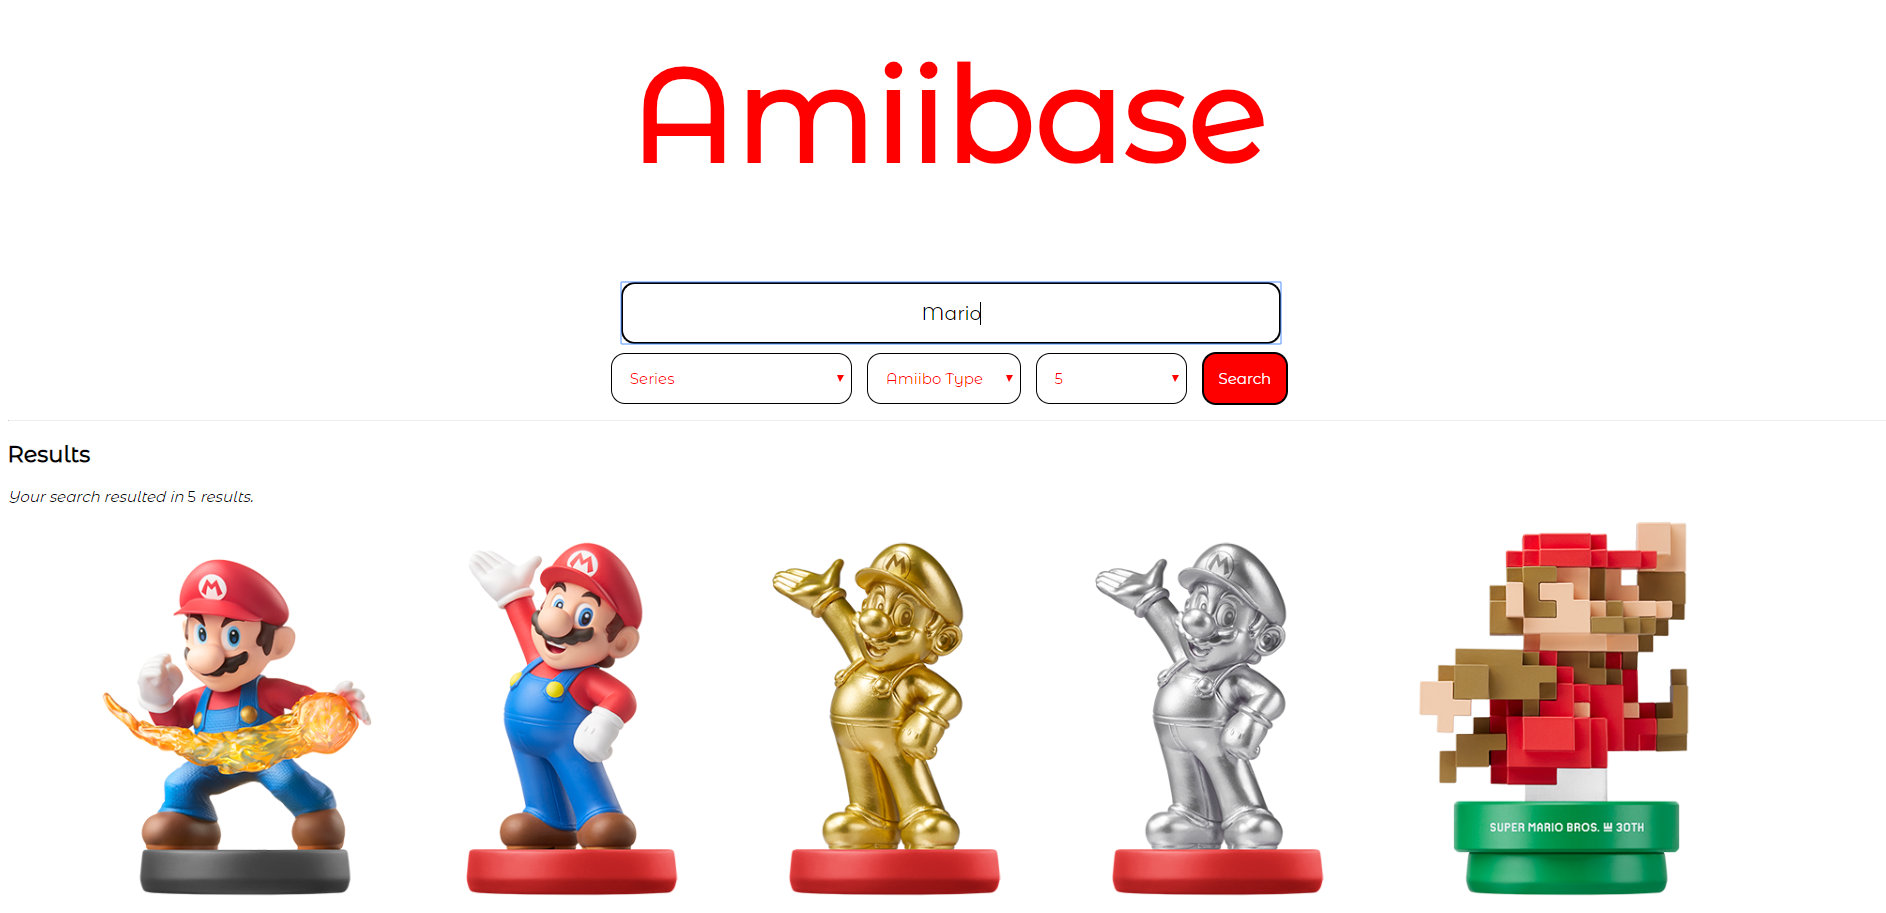
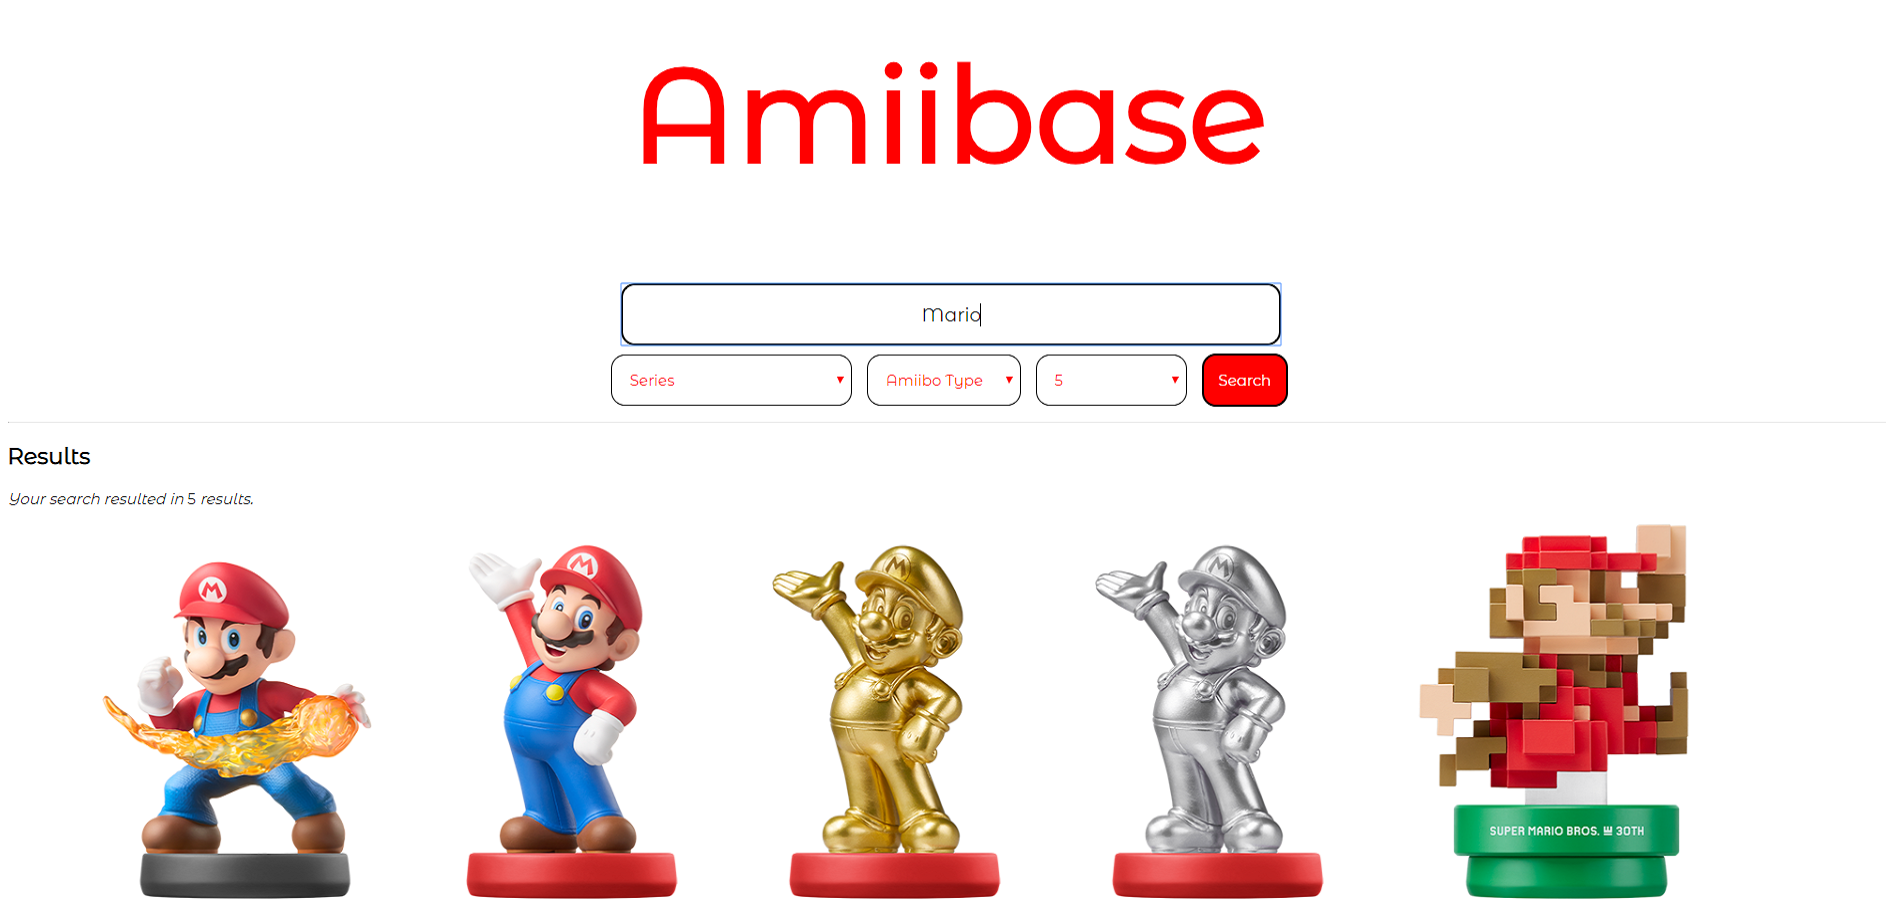
Fixed issue with carousels not working and edited some screenshots to make sizes the same

Changed region(s): [[0.3383, 0.3373, 0.6766, 0.46], [0.3383, 0.4294, 0.4305, 0.46], [0.5536, 0.4294, 0.6151, 0.46]]

diff --git a/index.html b/index.html
@@ -9,7 +9,7 @@
   <link rel="stylesheet" href="https://maxcdn.bootstrapcdn.com/bootstrap/3.3.1/css/bootstrap.min.css">
   <link rel="stylesheet" href="css/style.css">
   <script src="https://cdnjs.cloudflare.com/ajax/libs/popper.js/1.14.3/umd/popper.min.js"></script>
-  <script src="js/bootstrap.min.js"></script>
+  <script src="https://maxcdn.bootstrapcdn.com/bootstrap/3.3.1/js/bootstrap.min.js"></script>
   <meta name="viewport" content="width=device-width, initial-scale=1">
 </head>
 
@@ -27,10 +27,9 @@
       <!--navbar-header-->
       <div class="collapse navbar-collapse" id="collapse">
         <ul class="nav navbar-nav navbar-right">
-          <li class="active"><a href="#top">Home</a></li>
+          <li><a href="#top">Home</a></li>
           <li><a href="#aboutMe">About Me</a></li>
           <li><a href="#projects">Projects</a></li>
-          <li><a href="#resume">Resume</a></li>
           <li><a href="#contactMe">Contact Me</a></li>
         </ul>
       </div>
@@ -46,7 +45,7 @@
         </div>
         <div class = "col-sm-8">
           <h1 id="thatsMyName">Brady Friese</h1>
-        <h1 id="statement">C# and JavaScript Programmer searching for an internship</h1>
+        <h1 id="statement">Aspiring Software Developer looking for Employment</h1>
         </div>
         
       </div>
@@ -58,9 +57,8 @@
     <div class="page" >
       <div class="content container">
         <h2>About Me</h2>
-        <p>I am a Game Programmer from Lisbon Connecticut. I enjoy the process of creating living breathing objects
-          from lines of text on a
-          computer screen. I spend my offtime playing card games and watching Anime with friends.</p>
+        <p>I am a software developer with a focus on back-end JavaScript. I enjoy creating software that can be used by people all around the world. While I may focus on back-end development work, I do have some experience with front-end develpment and its frameworks as well. </p>
+        <p>I am a hard worker that can adapt quickly to unfamiliar environments and workflows. I also take pride in my ability to learn new languages and concepts quickly.</p>
       </div><!--Content Container-->
     </div><!-- aboutMe Page -->
   </div>
@@ -75,8 +73,7 @@
               <h3>Egg</h3>
               <div class="col-sm-4">
                 <p>Egg is a 2D platformer where you play as a chicken who must rescue all of their eggs. Players will
-                  run,jump, and dash around the level to reach the end goal. I worked on this game with 3 other students
-                  for a C# programming class project.</p>
+                  run,jump, and dash around the level to reach the end goal. I worked on this game with 3 other students.</p>
                 <p><b>Technologies Used</b></p>
                 <ul>
                   <li class="text">C#</li>
@@ -92,14 +89,15 @@
                 </ul>
               </div>
               <div class="col-sm-8">
-                <div class="carousel slide" data-ride="carousel" id="egg">
+                <div class="carousel slide" data-ride="carousel" id="eggCarousel">
+
                   <div class="carousel-inner">
                     <div class="item active"><img src="images/eggScreenshot1.PNG" alt="A screenshot of egg"></div>
                     <div class="item"><img src="images/eggScreenshot2.PNG" alt="Another screenshot of egg"></div>
                     <div class="item "><img src="images/eggScreenshot3.PNG" alt="The final screenshot of egg"></div>
                   </div><!--carousel-inner-->
-                  <a class="left carousel-control" href="#egg" role="button" data-slide="prev"><span class="glyphicon glyphicon-chevron-left"></span></a>
-                  <a class="right carousel-control" href="#egg" role="button" data-slide="next"> <span class="glyphicon glyphicon-chevron-right"></span></a>
+                  <a class="left carousel-control" href="#eggCarousel" role="button" data-slide="prev"><span class="glyphicon glyphicon-chevron-left"></span></a>
+                  <a class="right carousel-control" href="#eggCarousel" role="button" data-slide="next"> <span class="glyphicon glyphicon-chevron-right"></span></a>
                 </div><!-- egg carousel-->
               </div> <!--col-sm-8-->
              
@@ -111,7 +109,7 @@
             <h3>Amiibase</h3>
             <div class="col-sm-4">
               <p>Amiibase is a website that allows users to search for Amiibo Figures using the AmiiboAPI API. the user can search by the Amiibo Series, and Type.
-                The user can also limit the amount of results given. This website was made with another classmate as a project for a Website Design Class. </p>
+                The user can also limit the amount of results given. This website was made with another as a fun test early on in our time learning JavaScript. </p>
               <p><b>Technologies Used</b></p>
                 <ul>
                   <li class="text">HTML</li>
@@ -143,7 +141,7 @@
           </div><!--content container-->
         </div><!--page-->
       </div><!--main-->
-      <hr id="resume">
+      <hr id="contactMe">
       <div class="main">
         <div class="page">
           <div class="content container center">
